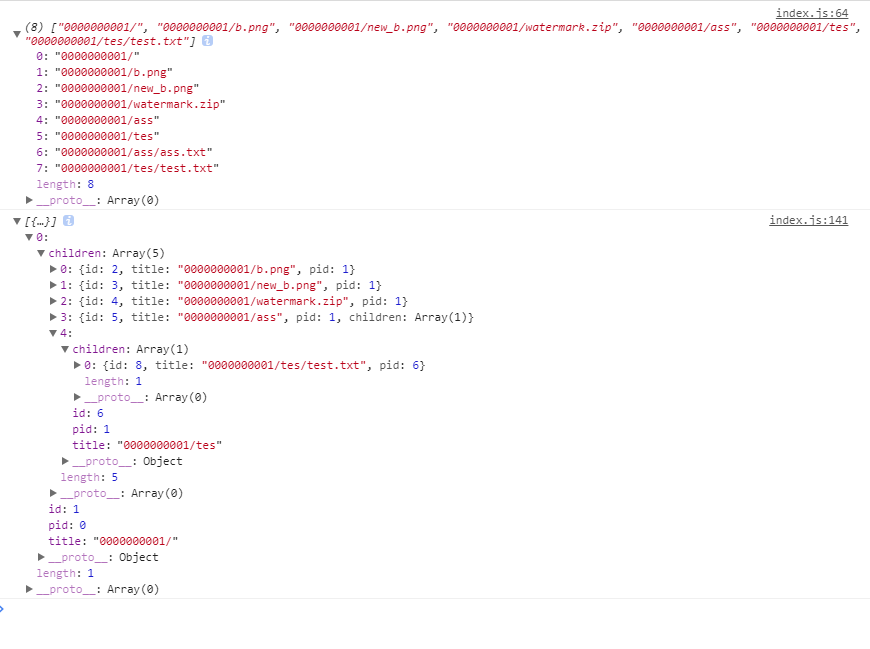
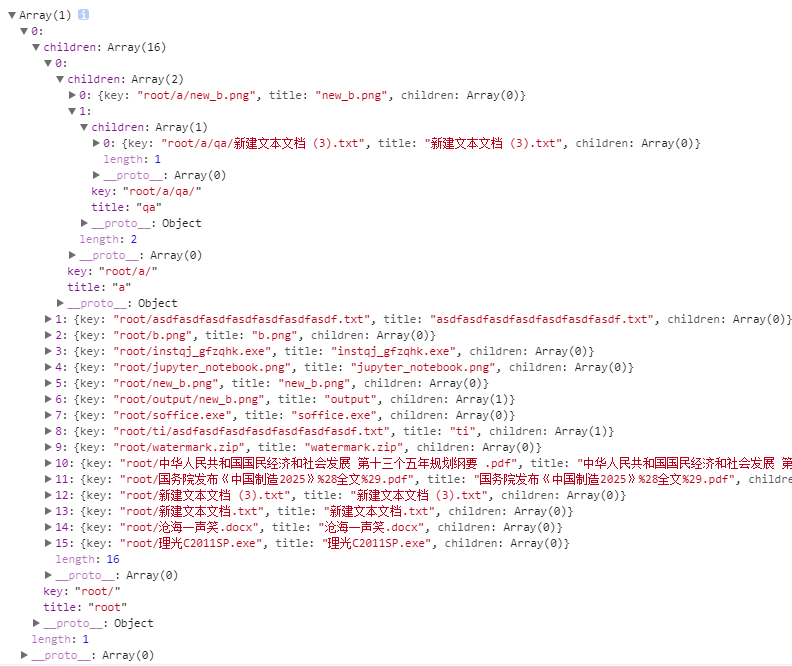
更好的实现

diff --git a/pathToTree.js b/pathToTree.js
@@ -1,148 +1,50 @@
-const compare = (() => {
-    function compareArray(a, b) {
-        if (a.length !== b.length) {
-            return false;
-        }
-        const length = a.length;
-        for (let i = 0; i < length; i++) {
-            if (!compare(a[i], b[i])) {
-                return false;
+const pathToTree = (input) => {
+    var output = [];
+    for (var i = 0; i < input.length; i++) {
+        var chain       = input[i].split("/");
+        var currentNode = output;
+        for (var j = 0; j < chain.length; j++) {
+            if (chain[j] === '') {
+                break;
             }
-        }
+            var wantedNode = chain[j];
 
-        return true;
-    }
+            var lastNode = currentNode;
 
-    function compareObject(a, b) {
-        const keya = Object.keys(a);
-        const keyb = Object.keys(b);
-
-        if (keya.length !== keyb.length) {
-            return false;
-        }
-
-        return keya.every(key => {
-            if (!compare(a[key], b[key])) {
-                return false;
-            }
-            return true;
-        });
-    }
-
-    function compare(a, b) {
-        if (a === b) {
-            return true;
-        }
-
-        if (typeof a !== typeof b || a === null || b === null) {
-            return false;
-        }
-
-        if (Array.isArray(a)) {
-            if (!Array.isArray(b)) {
-                return false;
-            }
-            return compareArray(a, b);
-        }
-
-        if (typeof a === "object") {
-            return compareObject(a, b);
-        }
-
-        return false;
-    }
-
-    return compare;
-})();
-
-
-function arrayToPid(data) {
-
-    let sorted = data.sort((a, b) => {
-        return a.split('/').length - b.split('/').length
-    })
-    console.log(sorted)
-    let index = 1;
-
-    let new_arr = [];
-
-    sorted.map((ele, i) => {
-        let obj           = {}
-            obj.id        = index;
-            obj.title     = ele
-        let completedPath = ele.split('/')
-            obj.pid       = 0;
-        new_arr.map((new_arr_ele, new_arr_index) => {
-
-            let new_arr_ele_completedPath = new_arr_ele.title.split('/');
-            let front_string              = completedPath.slice(0, completedPath.length - 1);
-            if (compare(new_arr_ele_completedPath.slice(-1), [''])) {
-                if (compare(front_string, new_arr_ele_completedPath.slice(0, new_arr_ele_completedPath.length - 1))) {
-                    obj.pid = new_arr_ele.id;
-                    return;
+            for (var k = 0; k < currentNode.length; k++) {
+                if (currentNode[k].title == wantedNode) {
+                    currentNode = currentNode[k].children;
+                    break;
                 }
             }
-            if (compare(front_string, new_arr_ele_completedPath)) {
-                obj.pid = new_arr_ele.id;
-                return
-            }
-
-        })
-        index++
-
-        new_arr.push(obj);
-
-    })
-    return new_arr
-}
-
-function arrayToJson(treeArray) {
-    var r      = [];
-    var tmpMap = {};
-
-    for (var i = 0, l = treeArray.length; i < l; i++) {
-        // 以每条数据的id作为obj的key值，数据作为value值存入到一个临时对象里面
-        tmpMap[treeArray[i]["id"]] = treeArray[i];
-    }
-
-    for (i = 0, l = treeArray.length; i < l; i++) {
-        var key = tmpMap[treeArray[i]["pid"]];
-
-        //循环每一条数据的pid，假如这个临时对象有这个key值，就代表这个key对应的数据有children，需要Push进去
-        if (key) {
-            if (!key["children"]) {
-                key["children"] = [];
-                key["children"].push(treeArray[i]);
+            // If we couldn't find an item in this list of children
+            // that has the right name, create one:
+            if (lastNode == currentNode) {
+                var newNode     = currentNode[k] = { key: input[i], title: wantedNode, children: [] };
+                    currentNode = newNode.children;
             } else {
-                key["children"].push(treeArray[i]);
+                delete currentNode.children
             }
-        } else {
-            //如果没有这个Key值，那就代表没有父级,直接放在最外层
-            r.push(treeArray[i]);
         }
     }
-    return r
+    return output;
+}
+// traverse tree to do something
+const traverseTree = function(data) {
+    return data.map((item) => {
+
+        item.title = item.title.length > 10 ? item.title.substring(0,7)+"..." : item.title
+        if (item.children.length === 0) {
+            delete item.children
+            return item
+        } else {
+            beautify(item.children)
+            return item
+        }
+    })
 }
 
-function main(arr) {
-    return arrayToJson(arrayToPid(arr))
+export default {
+    pathToTree:pathToTree,
+    traverseTree:traverseTree
 }
-
-export default main;
-
-
-
-/*****使用
-var arr = [
-    "0000000001/",
-    "0000000001/b.png",
-    "0000000001/new_b.png",
-    "0000000001/watermark.zip",
-    "0000000001/ass",
-    "0000000001/ass/ass.txt",
-    "0000000001/tes",
-    "0000000001/tes/test.txt",
-]
-
-console.log(main(arr))
-******/

diff --git a/README.md b/README.md
@@ -7,20 +7,33 @@ path string to object tree
 ```js
 import pathToTree from './pathToTress'
 
-var arr = [
-    "0000000001/",
-    "0000000001/b.png",
-    "0000000001/new_b.png",
-    "0000000001/watermark.zip",
-    "0000000001/ass",
-    "0000000001/ass/ass.txt",
-    "0000000001/tes",
-    "0000000001/tes/test.txt",
+ var arr=[
+    "root/",
+    "root/a/",
+    "root/a/new_b.png",
+    "root/a/qa/",
+    "root/a/qa/新建文本文档 (3).txt",
+    "root/asdfasdfasdfasdfasdfasdfasdf.txt",
+    "root/b.png",
+    "root/instqj_gfzqhk.exe",
+    "root/jupyter_notebook.png",
+    "root/new_b.png",
+    "root/output/new_b.png",
+    "root/soffice.exe",
+    "root/ti/asdfasdfasdfasdfasdfasdfasdf.txt",
+    "root/watermark.zip",
+    "root/中华人民共和国国民经济和社会发展 第十三个五年规划纲要 .pdf",
+    "root/国务院发布《中国制造2025》%28全文%29.pdf",
+    "root/新建文本文档 (3).txt",
+    "root/新建文本文档.txt",
+    "root/沧海一声笑.docx",
+    "root/理光C2011SP.exe"
 ]
 
 console.log(pathToTree(arr))
-
+console.log(traverseTree(pathToTree(arr)))
 ```
 output
 ![image](https://raw.githubusercontent.com/Liaozhenting/pathToTree/master/example.png)
+![image](https://raw.githubusercontent.com/Liaozhenting/pathToTree/master/example2.png)
 
